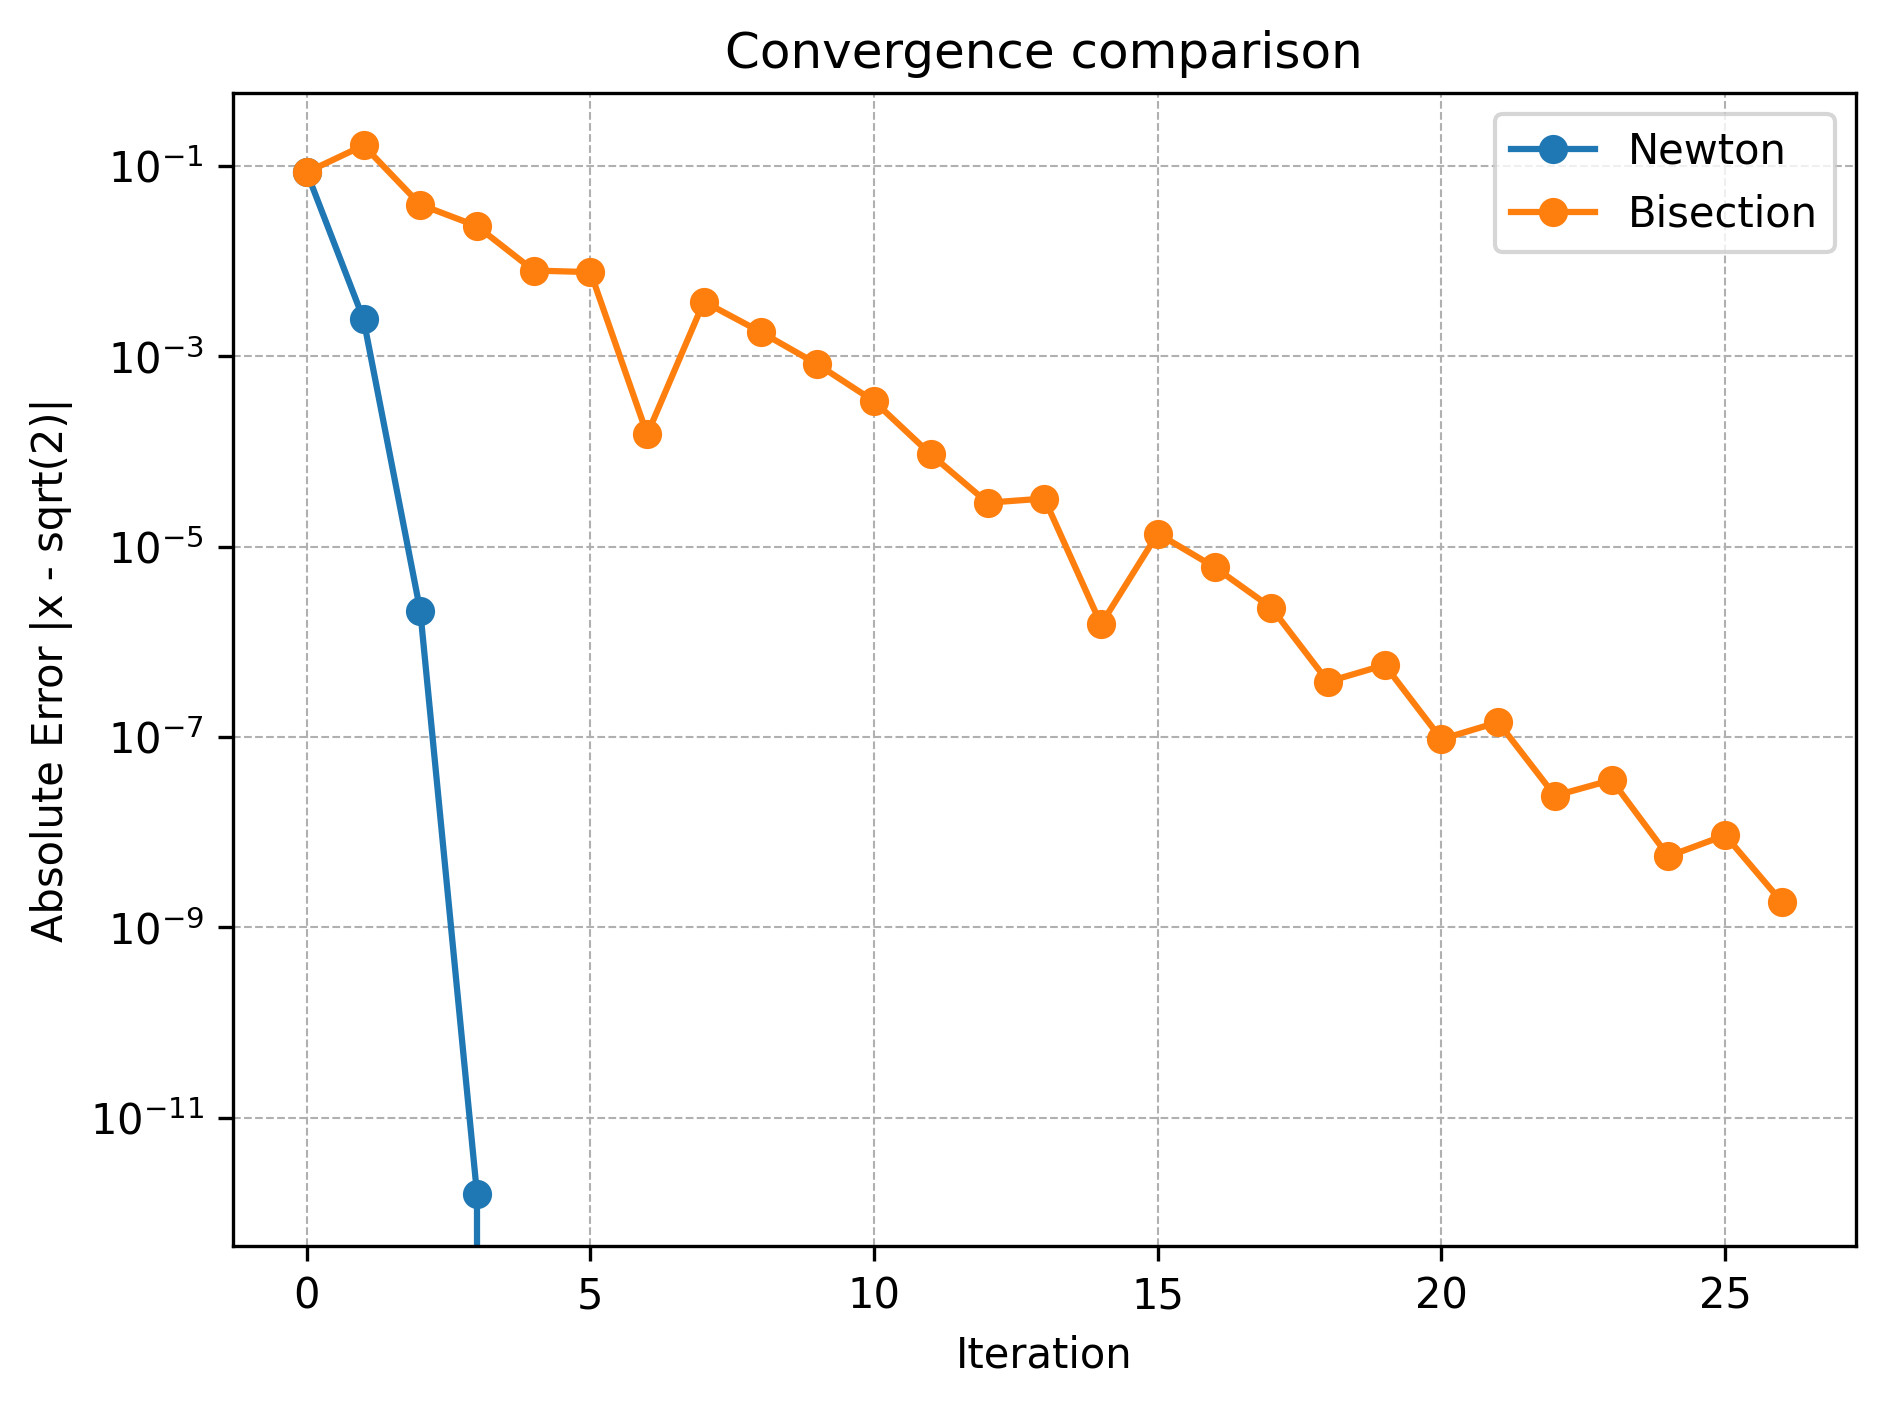
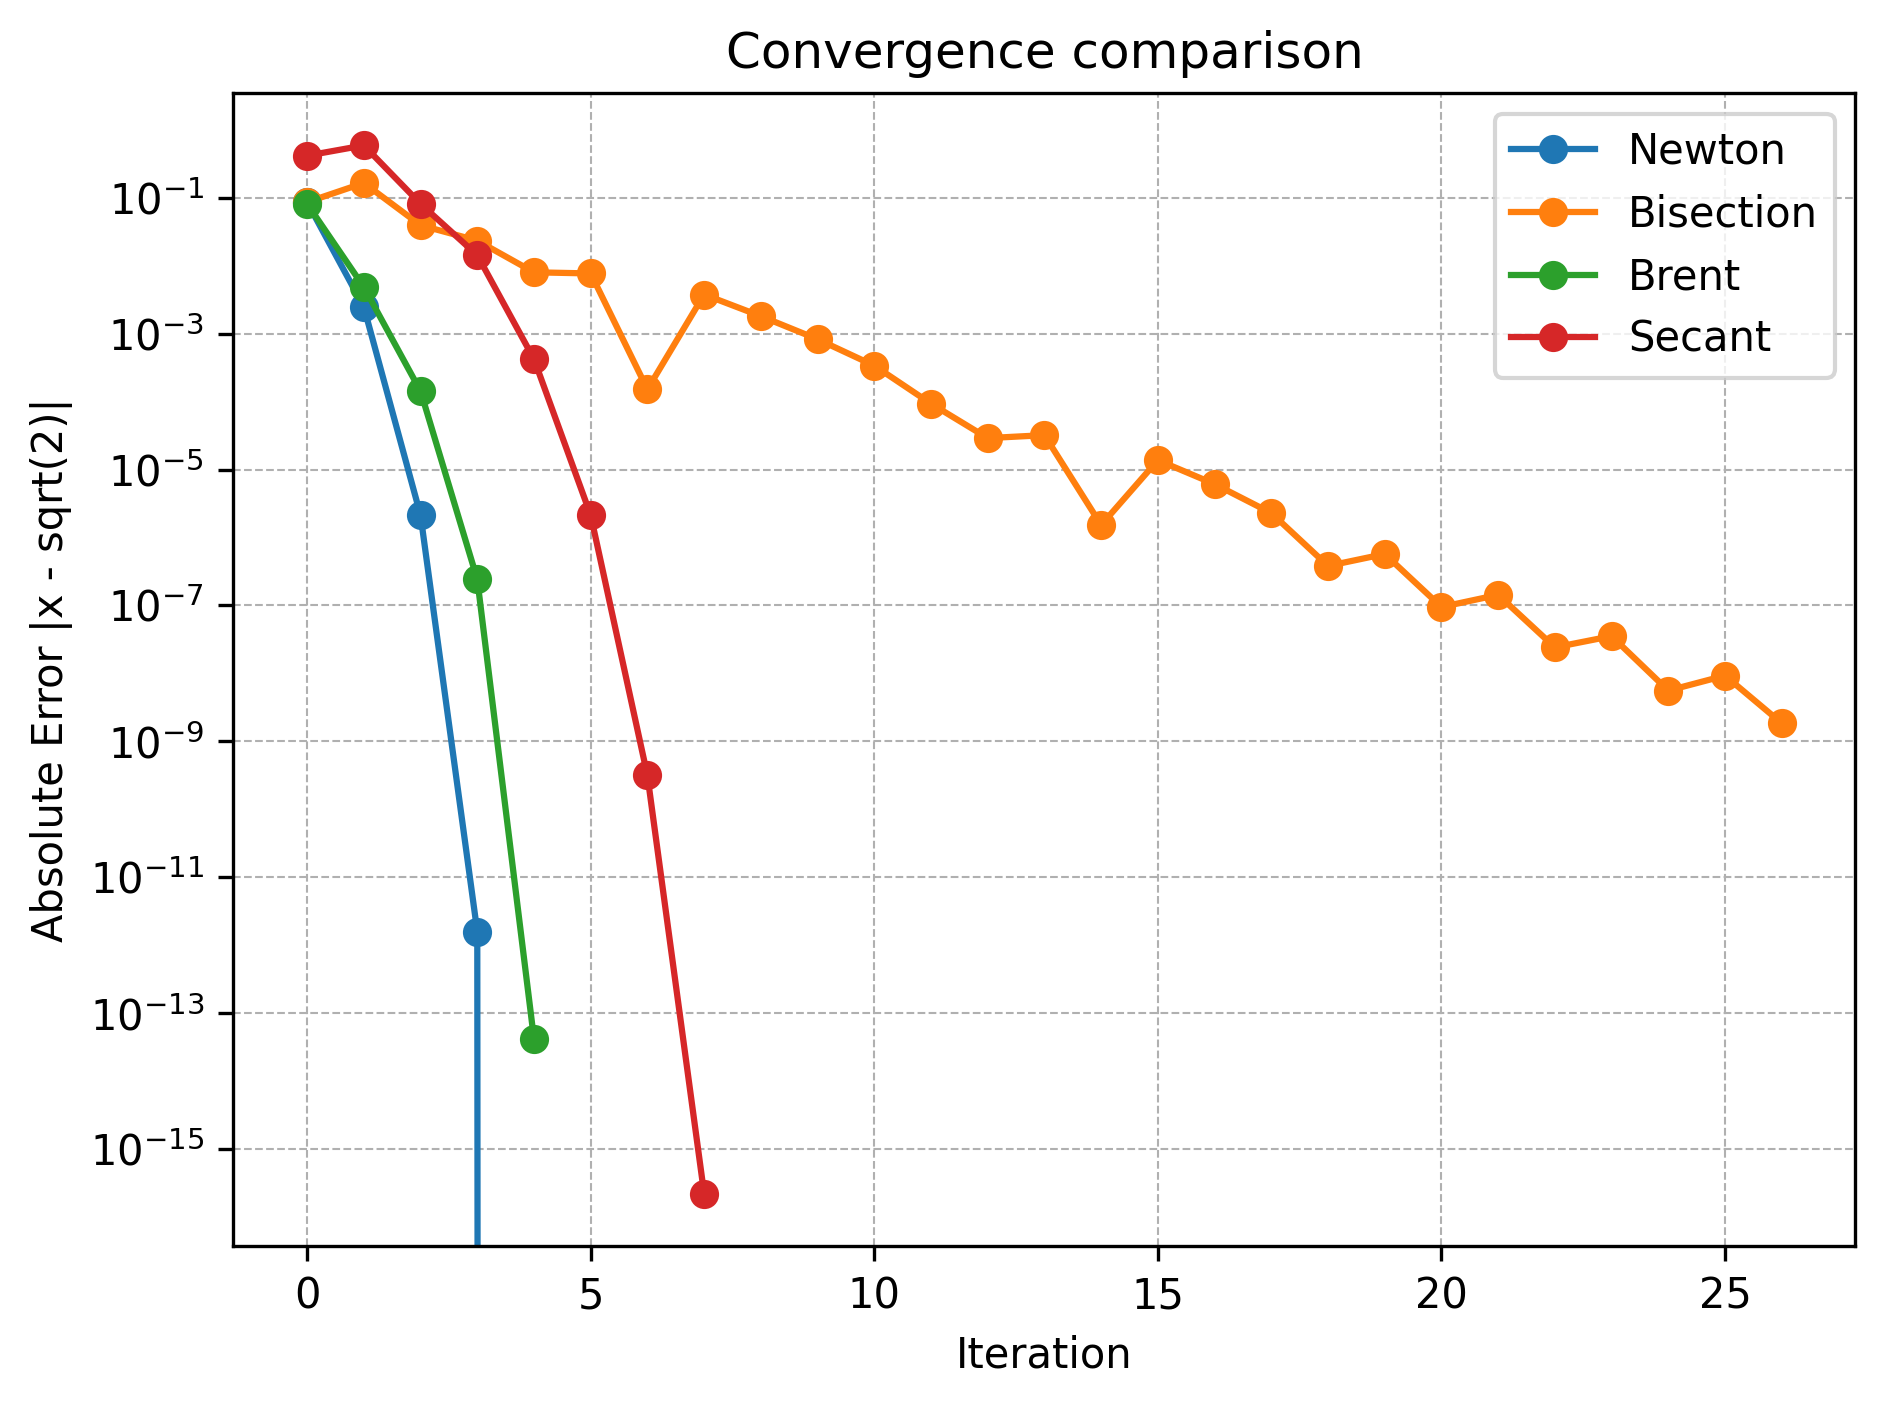
Added Brent method and performance benchmark code and interface

diff --git a/methods/brent.py b/methods/brent.py
@@ -1,0 +1,87 @@
+from dataclasses import dataclass
+from typing import Callable, List
+
+@dataclass
+class BrentResult:
+    root: float
+    iterations: int
+    converged: bool
+    history: List[float]
+    a_final: float
+    b_final: float
+
+def brent_method(
+    f: Callable[[float], float],
+    a: float,
+    b: float,
+    tol: float = 1e-8,
+    max_iter: int = 100,
+) -> BrentResult:
+    """ 
+    Find a root of f(x) = 0 on [a,b] using Brent's method.  
+
+    Requirements
+    - f(a) and f(b) must have opposite signs (i.e. bracket a root).
+    """
+    fa = f(a)
+    fb = f(b)
+
+    fa = f(a)
+    fb = f(b)
+    if fa * fb > 0:
+        raise ValueError("Brent's method requires f(a) and f(b) to have opposite signs (root must be bracketed)")
+
+    if abs(fa) < abs(fb):
+        a, b = b, a
+        fa, fb = fb, fa
+
+    c = a
+    fc = fa
+
+    history = []
+
+    mflag = True
+    s = b
+    
+    for iteration in range(1, max_iter + 1):
+        if fa != fc and fb != fc:
+            # Inverse quadratic interpolation
+            s = (a * fb * fc) / ((fa - fb) * (fa - fc)) + (b * fa * fc) / ((fb - fa) * (fb - fc)) + (c * fa * fb) / ((fc - fa) * (fc - fb))
+        else:
+            # Secant method
+            s = b - fb * (b - a) / (fb - fa)
+
+        condition1 = not ((3 * a + b) / 4 < s < b) if b > a else not (b < s < (3 * a + b) / 4)
+        condition2 = mflag and abs(s - b) >= abs(b - c) / 2
+        condition3 = not mflag and abs(s - b) >= abs(c - d) / 2 if 'd' in locals() else False
+        condition4 = mflag and abs(b - c) < tol
+        condition5 = not mflag and abs(c - d) < tol if 'd' in locals() else False
+
+        if condition1 or condition2 or condition3 or condition4 or condition5:
+            s = (a + b) / 2
+            mflag = True
+        else:
+            mflag = False
+
+        fs = f(s)
+        history.append(s)
+
+        d = c
+        c = b
+        fc = fb
+
+        if (fa * fs < 0):
+            b = s
+            fb = fs
+        else:
+            a = s
+            fa = fs
+        
+        if abs(fa) < abs(fb):
+            a, b = b, a
+            fa, fb = fb, fa
+
+        if abs(fb) < tol:
+            return BrentResult(root=b, iterations=iteration, converged=True, history=history, a_final=a, b_final=b)
+        
+    return BrentResult(root=b, iterations=max_iter, converged=False, history=history, a_final=a, b_final=b)

diff --git a/examples/benchmark_methods.py b/examples/benchmark_methods.py
@@ -1,0 +1,46 @@
+import math
+import time
+
+from methods.bisection import bisection_method
+from methods.brent import brent_method 
+from methods.secant import secant_method
+from methods.newton import newton_method
+
+def benchmark():
+    f = lambda x: x**2 - 2
+    df = lambda x: 2*x
+    true_root = math.sqrt(2)
+
+    results= []
+
+    # Newton
+    start = time.perf_counter()
+    newton = newton_method(f, df, x0=1.5)
+    t = time.perf_counter() - start
+    results.append(('Newton', newton.iterations, abs(newton.root - true_root), t))
+
+    # Secant
+    start = time.perf_counter()
+    secant = secant_method(f, x0=1.0, x1=2.0)
+    t = time.perf_counter() - start
+    results.append(('Secant', secant.iterations, abs(secant.root - true_root), t))
+
+    # Bisection
+    start = time.perf_counter()
+    bisection = bisection_method(f, a=1.0, b=2.0)
+    t = time.perf_counter() - start
+    results.append(('Bisection', bisection.iterations, abs(bisection.root - true_root), t))
+
+    # Brent
+    start = time.perf_counter()
+    brent = brent_method(f, a=1.0, b=2.0)
+    t = time.perf_counter() - start
+    results.append(('Brent', brent.iterations, abs(brent.root - true_root), t))
+
+    print("\nMethod      Iterations   Final Error      Time (s)")
+    print("----------------------------------------------------")
+    for name, iters, error, t in results:
+        print(f"{name:<11} {iters:<12} {error:<16.2e} {t:.6f}")
+
+if __name__ == "__main__":
+    benchmark()

diff --git a/examples/plot_convergence.py b/examples/plot_convergence.py
@@ -6,6 +6,8 @@ import matplotlib.pyplot as plt
 
 from methods.bisection import bisection_method
 from methods.newton import newton_method
+from methods.brent import brent_method
+from methods.secant import secant_method
 from pathlib import Path
 
 def main() -> None:
@@ -17,14 +19,20 @@ def main() -> None:
 
     newton = newton_method(f, df, x0=1.5)
     bisect = bisection_method(f, a=1.0, b=2.0)
+    brent = brent_method(f, a=1.0, b=2.0)
+    secant = secant_method(f, x0=1.0, x1=2.0)
     
     # Your result objects have a `history` attribute that contains the sequence of approximations.
     newton_err = [abs(x - true_root) for x in newton.history]
     bisect_err = [abs(x - true_root) for x in bisect.history]
+    brent_err = [abs(x - true_root) for x in brent.history]
+    secant_err = [abs(x - true_root) for x in secant.history]
 
     plt.figure()
     plt.semilogy(range(len(newton_err)), newton_err, marker="o", label="Newton")
     plt.semilogy(range(len(bisect_err)), bisect_err, marker="o", label="Bisection")
+    plt.semilogy(range(len(brent_err)), brent_err, marker="o", label="Brent")
+    plt.semilogy(range(len(secant_err)), secant_err, marker="o", label="Secant")
     plt.xlabel("Iteration")
     plt.ylabel("Absolute Error |x - sqrt(2)|")
     plt.title("Convergence comparison")

diff --git a/methods/solver.py b/methods/solver.py
@@ -2,6 +2,7 @@ from typing import Callable, Optional
 from methods.bisection import bisection_method
 from methods.newton import newton_method
 from methods.secant import secant_method
+from methods.brent import brent_method
 
 def solve(
     method: str,
@@ -16,7 +17,7 @@ def solve(
 ):
 
     method = method.lower()
-    
+
     if method == 'newton':
         if df is None or x0 is None:
             raise ValueError("Newton's method requires df and x0")
@@ -29,6 +30,10 @@ def solve(
         if a is None or b is None:
             raise ValueError("Bisection method requires a and b")
         return bisection_method(f, a=a, b=b, tol=tol, max_iter=max_iter)
+    elif method == 'brent':
+        if a is None or b is None:
+            raise ValueError("Brent's method requires a and b")
+        return brent_method(f, a=a, b=b, tol=tol, max_iter=max_iter)
     else:
         raise ValueError(f"Unknown method: {method}. Choose 'newton', 'secant', or 'bisection'.")
     

diff --git a/examples/brent_usage.py b/examples/brent_usage.py
@@ -1,0 +1,13 @@
+import math
+from methods.brent import brent_method
+
+def main():
+    f = lambda x: x**2 - 2
+    result = brent_method(f, a=1.0, b=2.0)
+
+    print("Root:", result.root)
+    print("Iterations:", result.iterations)
+    print("Converged:", result.converged)
+
+if __name__ == "__main__":
+    main()

diff --git a/tests/test_brent.py b/tests/test_brent.py
@@ -1,0 +1,10 @@
+import math
+from methods.brent import brent_method
+
+def test_brent_sqrt2():
+    f = lambda x: x**2 - 2
+
+    result = brent_method(f, a=1.0, b=2.0)
+
+    assert result.converged
+    assert abs(result.root - math.sqrt(2)) < 1e-8

diff --git a/README.md b/README.md
@@ -11,9 +11,10 @@ f(x) = 0
 Part of the **SKmodels** portfolio focused on scientific computing, numerical analysis and algorithm design.
 ---
 ## Implemented Methods
-- Newton-Raphson (derivative-based, quadratic convergence)
-- Bisection (bracketing method, guaranteed convergence)
-- Secant (derative-free, superlinear convergence)
+- **Newton-Raphson** - Quadratic convergence (order 2)
+- **Bisection** - Guaranteed convergence (linear order 1)
+- **Secant** - Superlinear convergence (~1.618)
+- **Brent's Method** - Hybrid bracketing + Interpolation (robust and fast)
 
 ## Convergence Properties
 - Bisection - Bracketing (Robust) - Linear (p ~ 1)  
@@ -68,15 +69,19 @@ result = bisection_method(f, a=1.0, b=2.0)
 print("Root:", result.root)
 print("Converged:", result.converged)
 ```
-### Convergence plot (Newton vs Bisection)
-```bash
-python -m examples.plot_convergence
-```
 ### Secant method
 ```bash
 python -m examples.secant_usage
 ```
-### Convergence Comparison
+### Brent's method
+```bash 
+python -m examples.brent_usage.py
+```
+### Convergence plot
+```bash
+python -m examples.plot_convergence
+```
+## Convergence Comparison
 
 Example convergence behaviour for solving:
 
@@ -87,6 +92,22 @@ x^2 - 2 = 0
 <p align="center">
   <img src="docs/convergence.png" width="600"/>
 </p>
+
+- Newton - faster near the root (quadratic) however, requires a derivative & a decent initial guess.
+- Bisection - guaranteed convergence when the root is bracketed, but slower (linear).
+- Secant - derivative-free & usually faster than bisection (superlinear), but not guaranteed convergence.
+- Brent's method - achieves near-Newton speed while retaining bisection robustness.
+
+## Performance Benchmark 
+
+Example solving x^2 - 2 = 0
+
+Method      Iterations    Final Error  
+-------------------------------------
+Newton         4            0.00e+00         
+Secant         6            2.22e-16        
+Bisection     27            1.85e-09         
+Brent          5            4.17e-14        
 
 ### Unified Solver Interface
 
